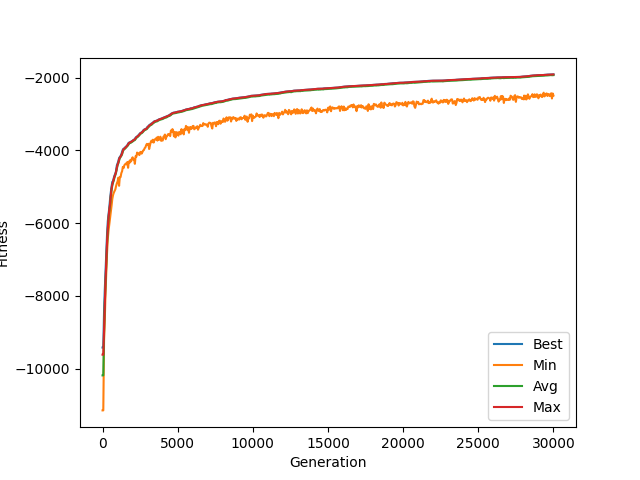
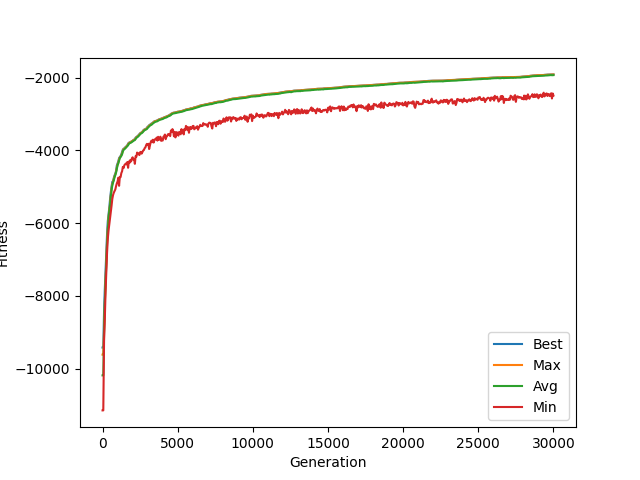
statistic of tabu ga

diff --git a/comparison.hpp b/comparison.hpp
@@ -1,0 +1,108 @@
+#pragma once
+
+#include "constructor.hpp"
+
+class Comparison : public constructor {
+public:
+    Comparison(const std::string& args = ""): constructor( args+ " name=comparison") {
+        if (meta.find("T") != meta.end()) T = static_cast<unsigned>(meta["T"]);
+        if (meta.find("seed") != meta.end()) gen.seed(static_cast<unsigned int>(meta["seed"]));
+        else gen.seed(std::random_device()());
+        if (meta.find("demo") != meta.end()) demo = true;
+        assign("n_lb", n_lb);
+        assign("n_ub", n_ub);
+    }
+
+public:
+    using Pos = std::pair<problem::obj_t, problem::obj_t>;
+    using Dat = problem::obj_t;
+    struct instance {
+        std::vector<Pos> pos;
+        std::vector<Dat> dat;
+    };
+
+protected:
+    template<typename T>
+    void assign(const std::string& name, T& s) {
+        if (meta.find(name) != meta.end()) s = static_cast<T>(meta[name]);
+    }
+
+    instance initialze(unsigned n) {
+        std::vector<Pos> pos;
+        std::vector<Dat> data;
+        std::uniform_real_distribution<problem::obj_t> dis_pos(pos_lb, pos_ub), dis_data(data_lb, data_ub);
+        for (unsigned i = 0; i < n; ++i) {
+            pos.push_back({dis_pos(gen), dis_pos(gen)});
+            data.push_back(dis_data(gen));
+        }
+        return instance{pos, data};
+    }
+
+    problem::graph_t generate(const instance& ins) const {
+        const auto& [pos, dat] = ins;
+        unsigned n = dat.size();
+        problem::graph_t g(n);
+        for (unsigned i = 0; i < n; ++i) {
+            for (unsigned j = 0; j < n; ++j) {
+                problem::obj_t dx = pos[i].first - pos[j].first;
+                problem::obj_t dy = pos[i].second - pos[j].second;
+                g(i, j) = (dat[i] + dat[j]) / trans_rate / 2.f + std::sqrt(dx * dx + dy * dy) / fly_speed;
+            }
+        }
+        return g;
+    }
+
+public:
+    virtual std::pair<std::shared_ptr<problem>, solution> construct() override {
+        std::string arg1 = "name=tabu-ga selection=elitism crossover=edge_recomb mutation=insert m=100 T=30000";
+        std::string arg2 = "name=min-max demo=0";
+        assign("solver1", arg1);
+        assign("solver2", arg2);
+        std::vector<std::shared_ptr<solver>> solv = {SolverFactory::produce(arg1), SolverFactory::produce(arg2)};
+
+        std::string fname = "data/comp/tabu-ga min-max.txt";
+        assign("save", fname);
+        std::ofstream fout;
+        if (fname.size()) fout.open(fname);
+
+        std::shared_ptr<problem> ins;
+        solution sol1, sol2;
+
+        for (unsigned i = 0; i < linspace; ++i) {
+            for (unsigned j = 0; j < T; ++j) {
+                unsigned n = (n_ub - n_lb) * i / (linspace - 1) + n_lb;
+                if (demo) std::cout << i << ' ' << j << '\n';
+                ins = ProblemFactory::produce("min-max", generate(initialze(n)), k);
+                if (demo) std::cout << "solve 1\n";
+                sol1 = solv[0]->solve(*ins);
+                if (demo) std::cout << "solve 2\n";
+                sol2 = solv[1]->solve(*ins);
+                
+                fout << "T=" << j << ' ';
+                fout << "n=" << n << ' ';
+                fout << "obj1=" << ins->objective(sol1) << ' ';
+                fout << "obj2=" << ins->objective(sol2) << ' ';
+                fout << std::endl;
+            }
+        }
+
+        if (fname.size()) fout.close();
+        return {ins, sol1};
+    }
+
+protected:
+    unsigned T = 10;
+    unsigned linspace = 10;
+    std::default_random_engine gen;
+    bool demo = false;
+
+    unsigned k = 30;
+
+    unsigned n_lb = 100, n_ub = 500;
+
+    float pos_lb = 0.f, pos_ub = 5000.f;
+    float data_lb = 5.f, data_ub = 10.f;
+
+    float trans_rate = 1.f;
+    float fly_speed = 10.f;
+};

diff --git a/tabu_ga.hpp b/tabu_ga.hpp
@@ -30,6 +30,7 @@ protected:
                 vec.resize(len);
                 for (auto& v : vec) v = dis(gen);
             }
+            us.clear();
             // for (auto& vec : hvt) {
             //     std::copy(vec.begin(), vec.end(), std::ostream_iterator<std::size_t>(std::cout, "\t"));
             //     std::cout << "\n";
@@ -67,11 +68,16 @@ protected:
 
 public:
     virtual solution solve(const problem& ins) override {
+        tabu_hit = 0, tabu_miss = 0, tabu_new = 0;
+        wams_miss = 0;
+        diversity = 0;
+        chr_max = 0, chr_min = 0, chr_avg = 0;
+
         tbs.setHashTable(ins().size() + ins.get_k() - 1, gen);
         return GeneticAlgorithm::solve(ins);
     }
 
-     virtual solution solve_single(const problem& ins) override {
+    virtual solution solve_single(const problem& ins) override {
         auto pool = initialize_pool();
         unsigned parent_size = m * parent_ratio;
         pool.reserve(m + parent_size);
@@ -86,7 +92,7 @@ public:
         unsigned block = T;
         std::chrono::steady_clock::time_point begin;
         if (record) {
-            fout.open(meta["save"], std::fstream::app);
+            fout.open(meta["save"]);
             fout << std::fixed;
             begin = std::chrono::steady_clock::now();
             block = 1000;
@@ -209,26 +215,28 @@ public:
                     tabu_miss += !v1 + !v2;
                 } while (v1 && v2 && ++cnt < tabu_tol);
                 
-                if (cnt > tabu_tol) pool[parent[i]] = random_chromosome(), pool[parent[i + 1]] = random_chromosome(), tabu_new += 2;
+                if (cnt >= tabu_tol) pool[parent[i]] = random_chromosome(), pool[parent[i + 1]] = random_chromosome(), tabu_new += 2;
             }
 
             // mutation all
-            for (auto& chr : pool) {
-                unsigned cnt = 0;
-                chromosome cpy = chr;
-                while (!tbs.contains(cpy) && ++cnt < tabu_tol);
-                tabu_hit += cnt;
-                if (cnt > tabu_tol) {
-                    // almost all neighbor of chr is visited, replace chr with a random chromosome directly
-                    chr = random_chromosome();
-                    ++tabu_new;
-                }
-                else {
-                    ++tabu_miss;
-                    chr = std::move(cpy);
-                    tbs.insert(chr);
-                }
-            }
+            // for (auto& chr : pool) {
+            //     if (dis01(gen) > mutation_rate) continue;
+            //     unsigned cnt = 0;
+            //     chromosome cpy = chr;
+            //     mutation(cpy);
+            //     while (!tbs.contains(cpy) && ++cnt < tabu_tol) mutation(cpy);
+            //     tabu_hit += cnt;
+            //     if (cnt >= tabu_tol) {
+            //         // almost all neighbor of chr is visited, replace chr with a random chromosome directly
+            //         chr = random_chromosome();
+            //         ++tabu_new;
+            //     }
+            //     else {
+            //         ++tabu_miss;
+            //         chr = std::move(cpy);
+            //         tbs.insert(chr);
+            //     }
+            // }
 
             update_best(t);
             std::uniform_int_distribution<unsigned> dis_ppl(0, pool.size() - 1);

diff --git a/proc/plot_avg.py b/proc/plot_avg.py
@@ -1,0 +1,58 @@
+import matplotlib.pyplot as plt
+import pandas as pd
+import numpy as np
+import matplotlib as mpl
+import os
+from functools import reduce
+
+def arg2df(fpath):
+    # print(fpath)
+    with open(fpath, 'r') as f:
+        lines = [line.split(' ')[:-1] for line in f.readlines()]
+        columns = [ele.split('=')[0] for ele in lines[0]]
+        rows = [[ele.split('=')[1] for ele in line] for line in lines]
+        df = pd.DataFrame(rows, columns=columns)
+        return df.apply(pd.to_numeric)
+
+def unique(arr):
+    re = []
+    for e in arr:
+        if e not in re:
+            re.append(e)
+    return sorted(re)
+
+def main():
+    pfx = '../data/comp/'
+    fpaths = [pfx + 'tabu-ga min-max.txt', pfx + 'tagu-ga_min-max_2.txt']
+    dest = '../figure/comp_avg.png'
+
+    colors = list(mpl.rcParams['axes.prop_cycle'])
+    colors = [x['color'] for x in colors]
+    plt.rcParams['text.usetex'] = True
+
+    dfs = [arg2df(fpaths[0]), arg2df(fpaths[1])]
+    df = pd.concat(dfs)
+
+    ns = unique(df['n'].to_numpy())
+    obj1 = [df[df['n'] == n]['obj1'].sum() / np.count_nonzero((df['n'] == n).to_numpy()) for n in ns]
+    obj2 = [df[df['n'] == n]['obj2'].sum() / np.count_nonzero((df['n'] == n).to_numpy()) for n in ns]
+
+    fig, ax1 = plt.subplots()
+    ax1.set_xlabel('$n$')
+    ax1.plot(ns, -np.array(obj1), label='Fitness of GA')
+    ax1.plot(ns, -np.array(obj2), label='Fitness of approAlgNoNei')
+    ax1.set_ylabel('Fitness')
+    ax1.legend(loc='upper center')
+
+    ax2 = ax1.twinx()
+    ax2.plot(ns, np.array(obj2) / np.array(obj1), color=colors[2])
+    xv, yv = 110, 1
+    ax2.plot([xv, xv], [0, yv], color=colors[2], linestyle='dashed')
+    ax2.plot([xv, 500], [yv, yv], color=colors[2], linestyle='dashed')
+    ax2.set_ylabel('Ratio', color = colors[2])
+    ax2.tick_params(axis ='y', labelcolor = colors[2])
+
+    plt.savefig(dest)
+
+if __name__ == '__main__':
+    main()

diff --git a/proc/plot_tabu_ga.py b/proc/plot_tabu_ga.py
@@ -56,7 +56,7 @@ def diversity(df, fname = '../figure/tabu/test.png'):
 
     # plot col_y
     fig, ax1 = plt.subplots()
-    y = df[col_y].to_numpy()
+    y = df[col_y].to_numpy() / 50 / 500
     y[0] = np.average(y[1:])
     ax1.set_xlabel(col_x)
     ax1.set_ylabel('Diversity')
@@ -81,9 +81,9 @@ def best_max_min_avg(df, fname):
     ax1.set_xlabel('Generation')
     ax1.set_ylabel('Fitness')
 
-    col_ys = ['best', 'mn', 'avg', 'mx']
+    col_ys = ['best', 'mx', 'avg', 'mn']
     clr_idxs = [0, 1, 2, 3]
-    lbs = ['Best', 'Min', 'Avg', 'Max']
+    lbs = ['Best', 'Max', 'Avg', 'Min']
     for col, clr_idx, lb in zip(col_ys, clr_idxs, lbs):
         # print(col, clr_idx, lb)
         y = df[col].to_numpy()
@@ -299,10 +299,10 @@ def main():
     # plot2y(df, 'wams_miss')
     pfx = '../figure/tabu/'
     # diversity(df, pfx + 'diversity.png')
-    # best_max_min_avg(df, pfx + 'bmma.png')
+    best_max_min_avg(df, pfx + 'bmma.png')
     # wams_miss(df, pfx + 'wams_miss.png')
     # tabu_hit(df, pfx + 'tabu_hit.png')
-    progress(df, pfx + 'progress.png')
+    # progress(df, pfx + 'progress.png')
 
     # wams_miss_adj(df, pfx + "wams_miss_adj.png")
 

diff --git a/constructor_factory.hpp b/constructor_factory.hpp
@@ -2,6 +2,7 @@
 
 #include "constructor.hpp"
 #include "grid_search.hpp"
+#include "comparison.hpp"
 
 class ConstructorFactory {
 public:
@@ -17,6 +18,7 @@ public:
         else if (name == "es")         return std::make_shared<EvolutionStrategy>(static_cast<std::string>(ac));
         else if (name == "min-deploy" ) return std::make_shared<InstanceMinDeploy>(static_cast<std::string>(ac));
         else if (name == "grid-search") return std::make_shared<GridSearch>(static_cast<std::string>(ac));
+        else if (name == "comparison") return std::make_shared<Comparison>(static_cast<std::string>(ac));
         else                           return std::make_shared<DummyConstructor>(static_cast<std::string>(ac));
     }
 };

diff --git a/proc/wams_rate.py b/proc/wams_rate.py
@@ -1,0 +1,24 @@
+import matplotlib.pyplot as plt
+import matplotlib as mpl
+import pandas as pd
+import numpy as np
+
+def main():
+    colors = list(mpl.rcParams['axes.prop_cycle'])
+    colors = [x['color'] for x in colors]
+    clr = colors[0]
+
+    x = np.linspace(0, 1, 100)
+    r = 1000
+    y = (np.power(r, x) - 1) / (r - 1)
+
+    x2 = np.linspace(1, 1.1, 10)
+    y2 = np.ones(len(x2))
+    plt.plot(x, y, color=clr)
+    plt.plot(x2, y2, color=clr)
+    plt.xlabel('Fitness Ratio')
+    plt.ylabel('Replace Prabability')
+    plt.savefig('../figure/wams.png')
+
+if __name__ == '__main__':
+    main()

diff --git a/README.md b/README.md
@@ -58,6 +58,11 @@ make
 ./cycle_cover --constructor="name=min-deploy k=5 n=100 problem=min-max solver='name=min-max demo=0'"
 ```
 
+Test Comparison
+```
+./cycle_cover --constructor="name=comparison"
+```
+
 ## GA parameters
 
 - name
